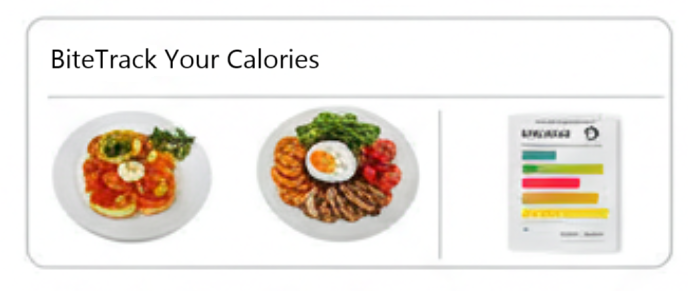
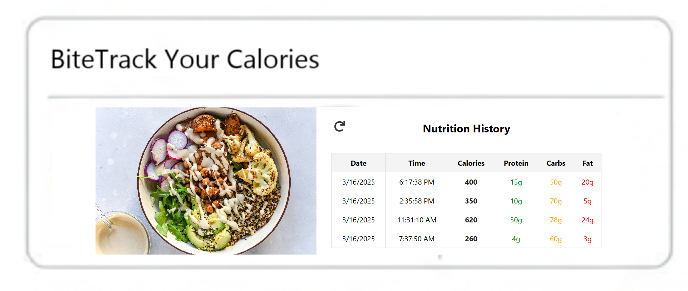
Added too many features lol: Specific error for big files on 413 error, changed mission_food image with nutrition history, added nutrition history, added save history functionality on image analysis, made nutrition result from image-upload prettier, added cacheing for history, edited a ProtectedRout

diff --git a/image-upload/src/UploadForm.js b/image-upload/src/UploadForm.js
@@ -1,4 +1,4 @@
-import React, { useState } from "react";
+import React, { useState, useRef } from "react";
 import "./UploadForm.css";
 import { useAuth } from "react-oidc-context";
 import SaveHistoryButton from "./SaveHistoryButton";
@@ -13,6 +13,7 @@ const UploadForm = () => {
   const [nutritionData, setNutritionData] = useState(null); // Store parsed JSON response
 
   const auth = useAuth();
+  const nutritionRef = useRef();
 
   const handleFileChange = (e) => {
     const selectedFile = e.target.files[0];
@@ -48,7 +49,10 @@ const UploadForm = () => {
         }
       );
   
-      if (!response.ok) {
+      if (response.status === 413) {
+        throw new Error("Image too large");
+      }
+      if (!response.ok) { // Any 200-299 OK
         throw new Error(`HTTP error! Status: ${response.status}`);
       }
   
@@ -57,6 +61,11 @@ const UploadForm = () => {
       setNutritionData(result.nutrition || {})
       setUuid(result.run_id || ""); 
       setError("");
+      setTimeout(() => {
+        if (nutritionRef.current) {
+          nutritionRef.current.scrollIntoView({ behavior: "smooth", block: "start" });
+        }
+      }, 300);
     } catch (err) {
       setError(`Error: ${err.message}`);
       setNutritionData(null);
@@ -83,8 +92,19 @@ const UploadForm = () => {
         </button>
       </form>
 
+      {imageUrl && (
+        <div className="image-preview">
+          <h2>Uploaded Image</h2>
+          <img src={imageUrl} alt="Uploaded" />
+        </div>
+      )}
+
       {/* Display Nutrition Details instead of raw API response */}
-      {nutritionData && <NutritionDetails nutritionData={nutritionData} />}
+      {nutritionData && (
+        <div ref={nutritionRef}>
+          <NutritionDetails nutritionData={nutritionData} />
+        </div>
+      )}
 
       {uuid && (
         auth.isAuthenticated ? (
@@ -95,14 +115,6 @@ const UploadForm = () => {
             <button onClick={() => auth.signinRedirect()}>Login Now</button>
           </div>
         )
-      )}
-
-
-      {imageUrl && (
-        <div className="image-preview">
-          <h2>Uploaded Image</h2>
-          <img src={imageUrl} alt="Uploaded" />
-        </div>
       )}
     </div>
   );

diff --git a/image-upload/src/SaveHistoryButton.js b/image-upload/src/SaveHistoryButton.js
@@ -1,20 +1,27 @@
 import React, { useState } from "react";
+import { useAuth } from "react-oidc-context";
+import "./SaveHistoryButton.css";
+
 
 const SaveHistoryButton = ({ uuid }) => {
   const [loading, setLoading] = useState(false);
   const [message, setMessage] = useState("");
+  const auth = useAuth();
 
   const handleSaveHistory = async () => {
     setLoading(true);
     setMessage("");
+    console.log(auth.user?.profile.sub)
+    console.log(auth.sub);
 
     try {
-      const response = await fetch("https://your-api-endpoint.com/save-history", {
+      console.log("WTF: ", JSON.stringify({ run_id: uuid, sub: auth.user?.profile.sub }));
+      const response = await fetch("https://3vd10i2cz5.execute-api.us-east-1.amazonaws.com/dev/calorie_run_details/save-image-analysis", {
         method: "POST",
         headers: {
-          "Content-Type": "application/json",
+            Accept: "application/json",
         },
-        body: JSON.stringify({ uuid }),
+        body: JSON.stringify({ run_id: uuid, sub: auth.user?.profile.sub }),
       });
 
       if (!response.ok) {

diff --git a/image-upload/src/Landing.css b/image-upload/src/Landing.css
@@ -31,18 +31,23 @@
   }
   
   .landing-right-container {
-    flex: 1; /* Take up available space */
-    max-width: 50%; /* Limit width to half the screen */
-    text-align: right; /* Align the image to the right */
-  }
-  
-  .example-image {
-    border-radius: 15px; /* Rounded edges */
-    max-width: 100%; /* Ensure the image is responsive */
-    height: auto; /* Maintain aspect ratio */
+    flex: 1;
+    max-width: 50%;
+    display: flex;
+    justify-content: center; /* Center the image horizontally */
+    align-items: center; /* Center the image vertically */
   }
   
   .upload-form-container {
     width: 100%; /* Take full width */
     margin-top: 20px; /* Add space above the UploadForm */
   }
+
+  .example-image {
+    border-radius: 15px;
+    max-width: 80%; /* Adjust the size */
+    height: auto;
+    display: block;
+    margin: 0 auto; /* Ensure it's centered inside the parent */
+  }
+

diff --git a/image-upload/src/App.js b/image-upload/src/App.js
@@ -4,7 +4,7 @@ import { useAuth } from "react-oidc-context";
 import Toolbar from "./Toolbar";
 import Landing from "./Landing";
 import UploadForm from "./UploadForm";
-import History from "./History";
+import NutritionHistory from "./NutritionHistory";
 import ProtectedRoute from "./ProtectedRoute"; // Import the new component
 import "./App.css";
 
@@ -21,7 +21,7 @@ function App() {
         <Routes>
           <Route path="/" element={<Landing />} />
           <Route path="/upload_food" element={<UploadForm />} />
-          <Route path="/history" element={<ProtectedRoute />} />
+          <Route path="/history" element={<ProtectedRoute Component={NutritionHistory} />} />
         </Routes>
       </div>
     </Router>

diff --git a/image-upload/src/SaveHistoryButton.css b/image-upload/src/SaveHistoryButton.css
@@ -1,0 +1,35 @@
+.save-history-container {
+    text-align: center;
+    margin-top: 20px;
+  }
+  
+  .save-history-button {
+    background-color: #007bff;
+    color: white;
+    font-size: 16px;
+    font-weight: bold;
+    padding: 10px 20px;
+    border: none;
+    border-radius: 8px;
+    cursor: pointer;
+    transition: background-color 0.3s, transform 0.2s;
+  }
+  
+  .save-history-button:hover {
+    background-color: #0056b3;
+    transform: scale(1.05);
+  }
+  
+  .save-history-button:disabled {
+    background-color: gray;
+    cursor: not-allowed;
+    transform: none;
+  }
+  
+  .save-history-message {
+    margin-top: 10px;
+    font-size: 14px;
+    color: #28a745;
+    font-weight: bold;
+  }
+  

diff --git a/image-upload/src/ProtectedRoute.js b/image-upload/src/ProtectedRoute.js
@@ -1,9 +1,12 @@
 import React from "react";
 import { withAuthenticationRequired } from "react-oidc-context";
-import History from "./History"; // Import your History component
 
-const ProtectedRoute = withAuthenticationRequired(History, {
-  onRedirecting: () => <div>Redirecting to the login page...</div>,
-});
+const ProtectedRoute = ({ Component }) => {
+  const WrappedComponent = withAuthenticationRequired(Component, {
+    onRedirecting: () => <div>Redirecting to the login page...</div>,
+  });
+
+  return <WrappedComponent />;
+};
 
 export default ProtectedRoute;
